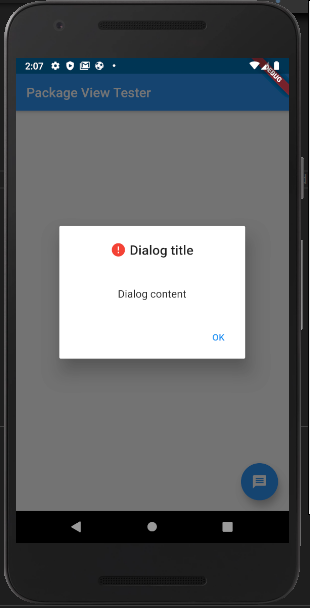
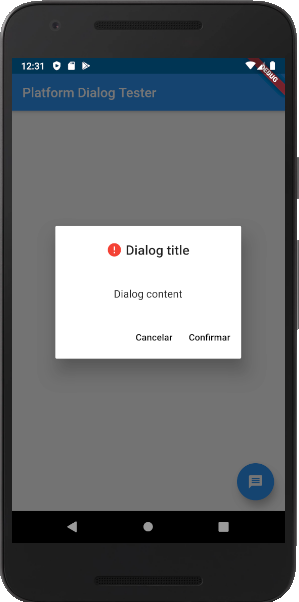
1433

Changed region(s): [[0.0, 0.0, 1.0, 1.0], [0.1806, 0.3588, 0.8127, 0.598], [0.3612, 0.4784, 0.602, 0.5083]]

diff --git a/example/lib/main.dart b/example/lib/main.dart
@@ -1,4 +1,5 @@
 import 'package:dialog_information_to_specific_platform/dialog_information_to_specific_platform.dart';
+import 'package:dialog_information_to_specific_platform/flat_buttons/actions_flatbutton_to_alert_dialog.dart';
 import 'package:flutter/material.dart';
 
 void main() => runApp(MyApp());
@@ -49,12 +50,15 @@ class _MyHomePageState extends State<MyHomePage> {
                 ),
                 title: 'Dialog title',
                 message: 'Dialog content',
-                // buttons: [
-                //   ActionsFlatButtonToAlertDialog(
-                //     messageButton: 'Cancelar',
-                //   ),
-                //   //   InformationAlertDialog.createFlatButton(),
-                // ],
+                buttons: [
+                  ActionsFlatButtonToAlertDialog(
+                    messageButton: 'Cancelar',
+                  ),
+                  ActionsFlatButtonToAlertDialog(
+                    messageButton: 'Confirmar',
+                  ),
+                  //   InformationAlertDialog.createFlatButton(),
+                ],
               ),
             );
           }),
